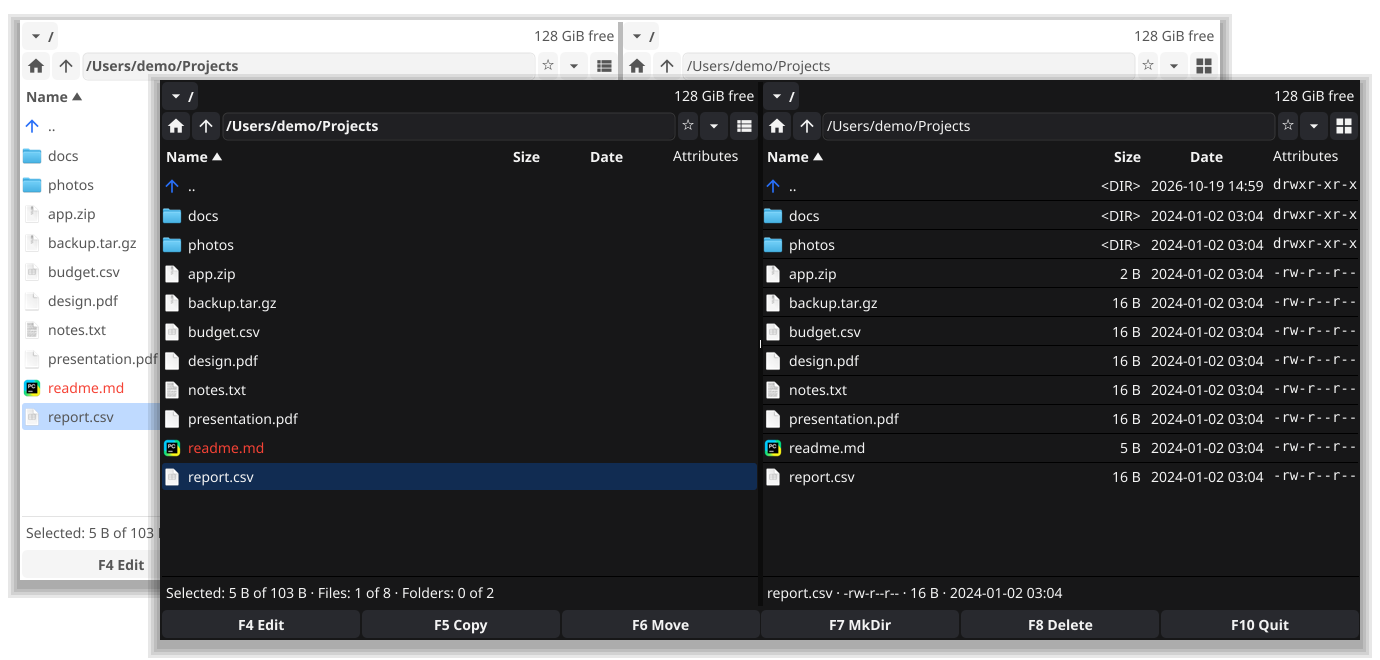
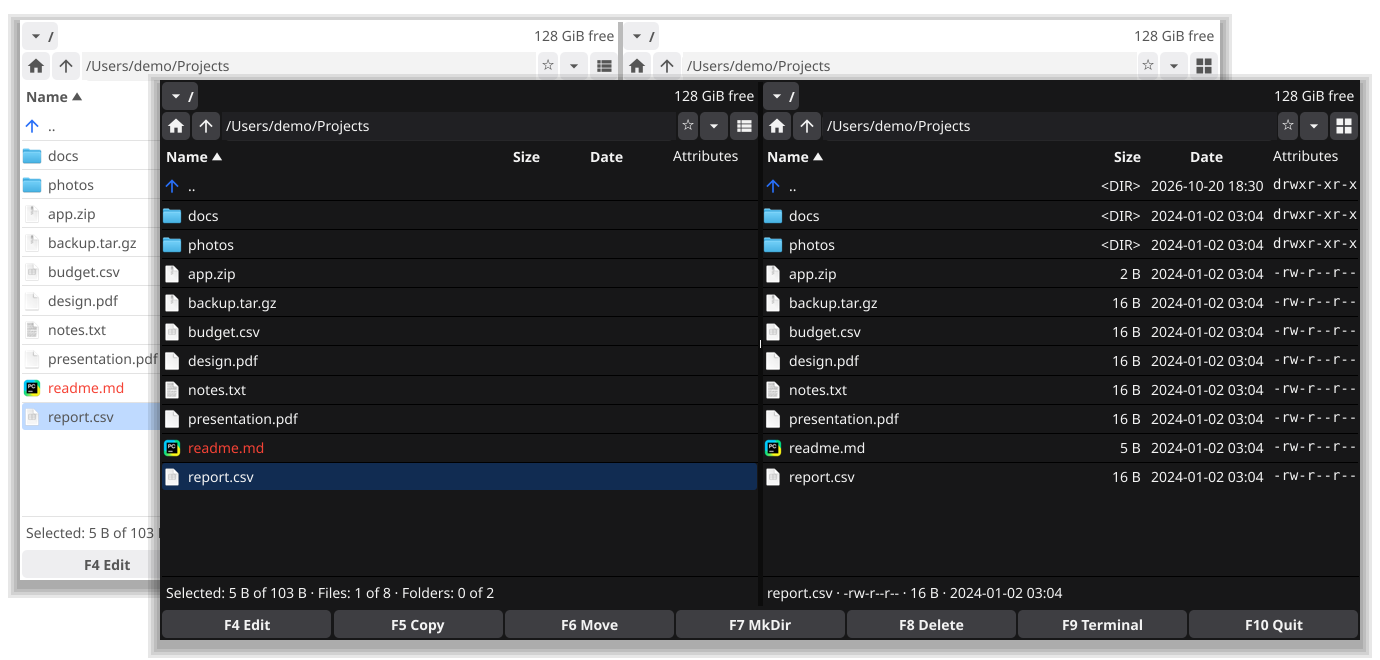
feat: documenting up-to-date functionality

diff --git a/index.html b/index.html
@@ -70,7 +70,8 @@
         <p class="eyebrow">macOS · Windows · Linux</p>
         <h1 id="title">two panes, less friction</h1>
         <figure id="screenshots">
-          <a href="screenshots/dualcommander.png" aria-label="View full-size DualCommander preview"><img src="screenshots/dualcommander.png" alt="Overlapping DualCommander previews with sample files: light mode behind, dark mode in front. Brief view left, detailed view right, with app navigation and action bars; native OS title and menu bars omitted." width="1380" height="660" fetchpriority="high" decoding="async"></a>
+          <a href="screenshots/dualcommander.png" aria-label="View full-size DualCommander preview"><img src="screenshots/dualcommander.png" alt="Current DualCommander interface with sample files: light theme behind, dark theme in front, brief view left and detailed view right. Folder navigation, free space, selection totals, and function-key actions are visible; native OS title and menu bars are omitted." width="1380" height="660" fetchpriority="high" decoding="async"></a>
+          <figcaption>Current app-rendered preview: brief and detailed views, in light and dark themes. Click to view full size.</figcaption>
         </figure>
         <p class="lead">Move through your files, not through windows. A keyboard-friendly file manager with two panes, light and dark themes, and a view for each side.</p>
         <div class="actions">
@@ -81,10 +82,10 @@
       <section id="features" aria-labelledby="features-title">
         <h2 id="features-title">Familiar tools. Focused workflow.</h2>
         <div class="grid">
-          <article><h3>Files side by side</h3><p>Copy, move, rename, and delete across two panes. Background operations include progress and cancellation. Deletions use Trash or Recycle Bin by default.</p></article>
-          <article><h3>Keyboard first</h3><p>Switch panes with Tab. Copy with F5, move with F6, create folders with F7. Mark files individually or as a range.</p></article>
-          <article><h3>Look inside archives</h3><p>Browse ZIP, TAR, 7z, RAR, and compressed files without leaving the pane. Archive browsing is read-only; editing and file operations inside archives are unavailable.</p></article>
-          <article><h3>At home on your OS</h3><p>Open files in your default apps, edit in an external text editor, reveal files, or launch a terminal in the current folder.</p></article>
+          <article><h3>Files side by side</h3><p>Copy, move, rename, and delete across two panes, with background progress and cancellation. Compare source and target details before choosing Skip, Overwrite, or applying either choice to all conflicts in that operation. Deletions use Trash or Recycle Bin by default.</p></article>
+          <article><h3>Keyboard first</h3><p>Switch panes with Tab. Copy with F5, move with F6, create files with Shift+F4, and create folders with F7. Mark files individually or as a range; swap panes or open the same folder on both sides.</p></article>
+          <article><h3>Look inside archives</h3><p>Browse ZIP, TAR, 7z, RAR, and compressed files, including password-protected ZIP, 7z, and RAR. Browsing is read-only; nested archives are not browsed in-pane. Opening a member creates a temporary copy (up to 256 MiB), removed on exit. Edits do not update the archive.</p></article>
+          <article><h3>At home on your OS</h3><p>Open files in your default apps, edit in an external text editor, reveal files, copy paths, or launch a terminal in the current folder. Right-click for Open With and Get Info on macOS, or Open With and Properties on Windows.</p></article>
           <article><h3>Your view, remembered</h3><p>Brief and detailed views, sorting, shared favourite folders, light and dark themes, adjustable density, and font sizes. Pane paths and window state persist.</p></article>
           <article><h3>Stay up to date</h3><p>Folder changes refresh automatically through native OS notifications. Find files by name or content, and switch between mounted volumes.</p></article>
         </div>
@@ -93,10 +94,11 @@
         <h2 id="download-title">Get DualCommander</h2>
         <p>Find published packages on <a href="https://github.com/dualcommander/dualcommander/releases">GitHub Releases</a>. If no release is available yet, check successful <a href="https://github.com/dualcommander/dualcommander/actions/workflows/build.yml">GitHub Actions builds</a> for downloadable artifacts (GitHub sign-in required).</p>
         <ul>
-          <li><strong>macOS:</strong> Apple Silicon (arm64) and Intel (amd64).</li>
+          <li><strong>macOS:</strong> Apple Silicon (arm64) and Intel (amd64), as DMG or ZIP. Open the DMG and drag DualCommander into Applications.</li>
           <li><strong>Windows:</strong> amd64.</li>
-          <li><strong>Linux:</strong> amd64.</li>
+          <li><strong>Linux:</strong> amd64, as DEB, RPM, or tar.xz. Requires glibc 2.35+ and a desktop session with OpenGL support; system graphics libraries are not bundled.</li>
         </ul>
+        <p class="note">Linux compatibility targets include Debian 12+, Ubuntu 22.04+, Mint 21+, and compatible Fedora/RHEL-family releases, not RHEL 9 or older. These are targets, not a tested distro matrix. See the <a href="https://github.com/dualcommander/dualcommander#download">installation guide</a> for package commands and requirements.</p>
         <p class="note">macOS and Windows packages are unsigned and not notarized. Your OS may show security warnings. Download only from the project repository and review those warnings before running.</p>
         <p>Prefer building locally? Follow the <a href="https://github.com/dualcommander/dualcommander/blob/main/CONTRIBUTING.md">development guide</a>.</p>
       </section>
@@ -107,10 +109,14 @@
           <dt><kbd>Enter</kbd></dt><dd>Open a folder or file</dd>
           <dt><kbd>Space</kbd> / <kbd>Insert</kbd></dt><dd>Mark or unmark an item</dd>
           <dt><kbd>F4</kbd></dt><dd>Edit with an external text editor</dd>
+          <dt><kbd>Shift</kbd> + <kbd>F4</kbd></dt><dd>Create and select a new file</dd>
           <dt><kbd>F5</kbd> / <kbd>F6</kbd></dt><dd>Copy / move</dd>
-          <dt><kbd>Shift</kbd> + <kbd>F6</kbd></dt><dd>Rename selected item</dd>
+          <dt><kbd>F2</kbd> / <kbd>Shift</kbd> + <kbd>F6</kbd></dt><dd>Rename cursor item (F2 on .. selects the current path)</dd>
           <dt><kbd>F7</kbd> / <kbd>F8</kbd></dt><dd>Create a folder / delete</dd>
           <dt><kbd>Cmd</kbd> / <kbd>Ctrl</kbd> + <kbd>F</kbd></dt><dd>Find files (Cmd on macOS, Ctrl on Windows and Linux)</dd>
+          <dt><kbd>F9</kbd></dt><dd>Open terminal in current folder</dd>
+          <dt><kbd>Cmd</kbd> / <kbd>Ctrl</kbd> + <kbd>U</kbd></dt><dd>Swap panes</dd>
+          <dt><kbd>Cmd</kbd> / <kbd>Ctrl</kbd> + <kbd>E</kbd></dt><dd>Open the same folder in the other pane</dd>
         </dl>
         <p>Full controls and archive support: <a href="https://github.com/dualcommander/dualcommander#readme">user guide</a>.</p>
       </section>

diff --git a/README.md b/README.md
@@ -12,7 +12,17 @@ Regenerate from the app repository with:
 WEBSITE_SCREENSHOT="$PWD/../dualcommander.github.io/screenshots/dualcommander.png" go test ./internal/commander -run '^TestWebsiteScreenshot$' -count=1
 ```
 
+Refresh icons from the same app checkout (ImageMagick required):
+
+```sh
+cp assets/dualcommander.png ../dualcommander.github.io/dualcommander.png
+magick assets/dualcommander.png -define icon:auto-resize=48,32,16 ../dualcommander.github.io/favicon.ico
+magick assets/dualcommander.png -resize 180x180 ../dualcommander.github.io/apple-touch-icon.png
+```
+
 Keep image dimensions in `index.html` in sync when replacing screenshots.
+Keep feature copy and shortcuts aligned with the app README; archive browsing
+remains read-only. The Pages workflow runs `check.py` before deployment.
 
 ## Preview
 
